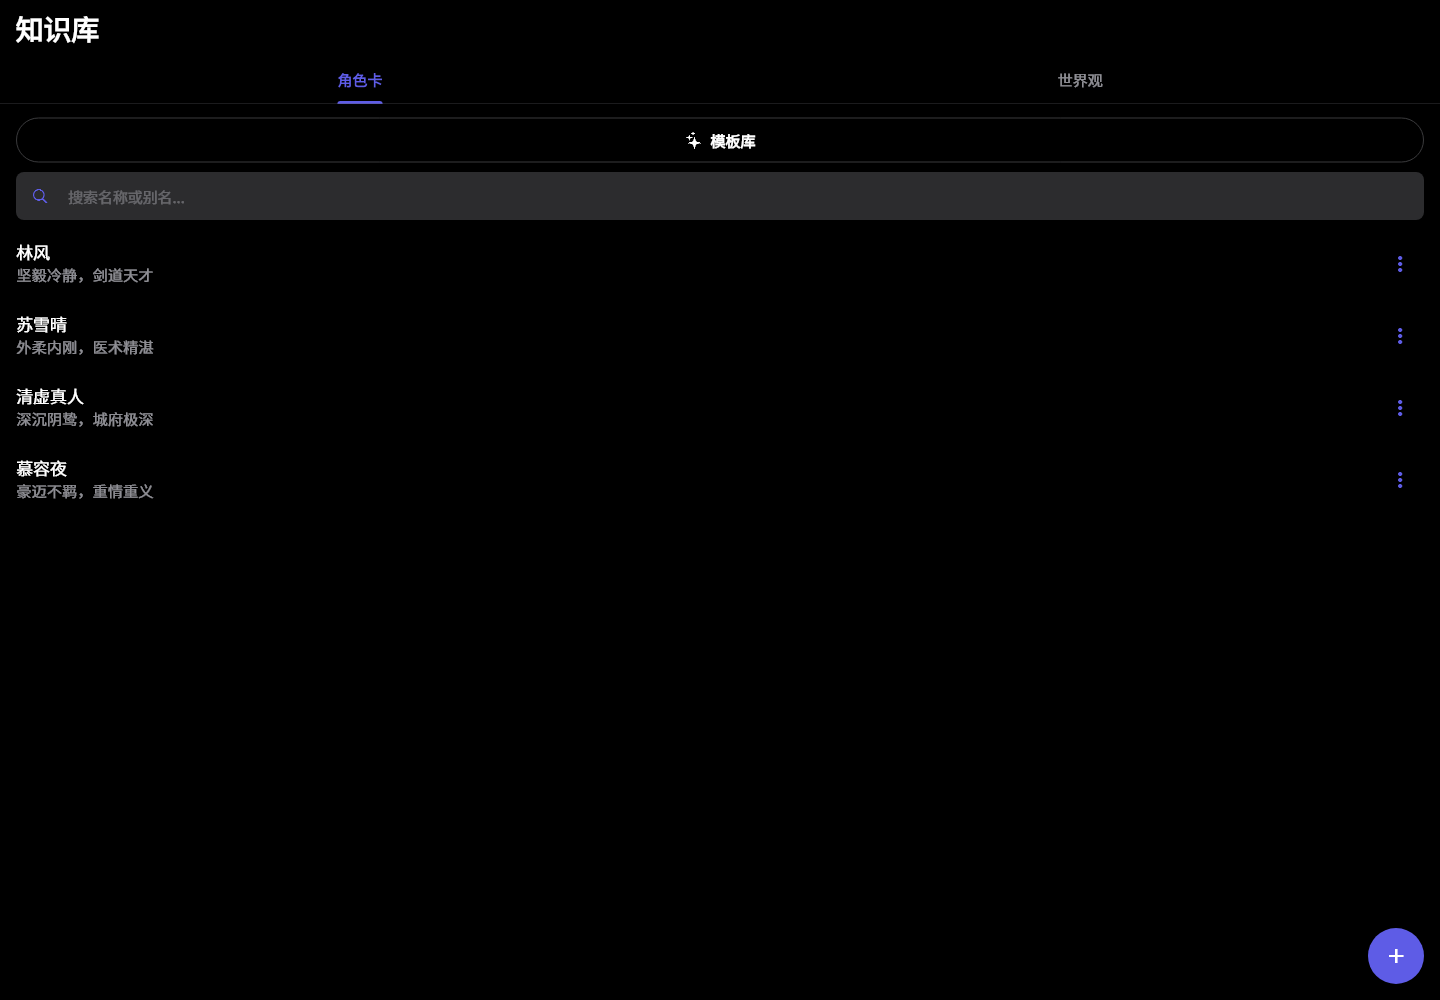
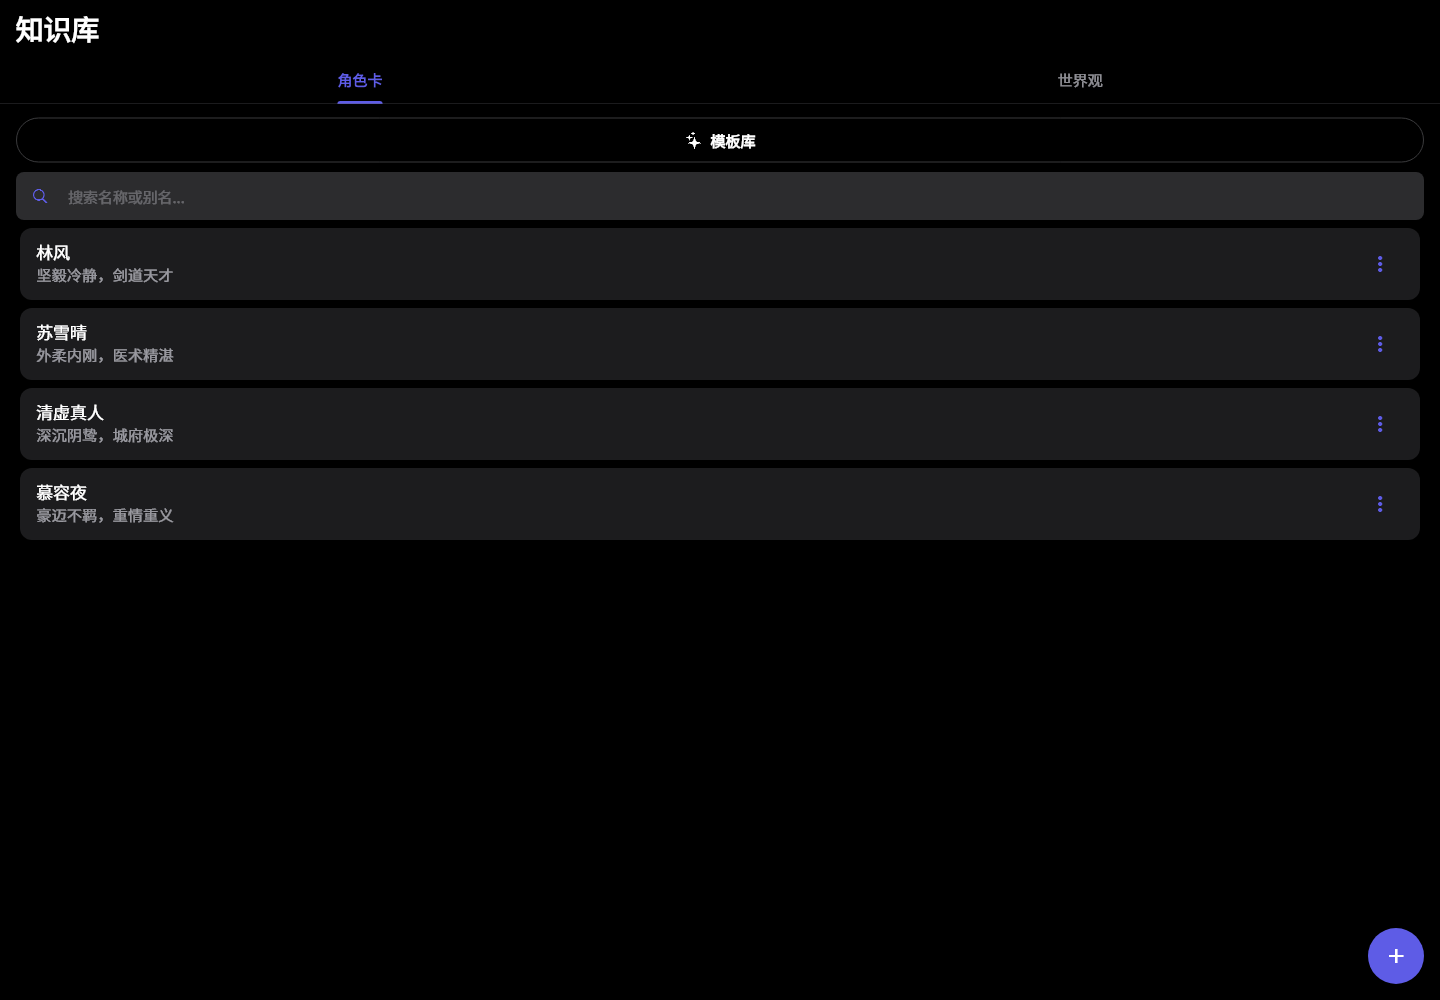
fix(design): card containers for knowledge lists + AppCard Material layer
The knowledge-base character/world lists rendered as bare ListTiles on
the page background — the card-container step was lost when the
interrupted restyle pass was reverted. Wrap both tiles in AppCard (zero
inner padding, page-margin inset), and give AppCard a transparent
Material inside its decorated Container so ListTile ink splashes render
without the framework's hidden-background assertion. Regenerate the
two knowledge goldens.

Changed region(s): [[0.0, 0.217, 1.0, 0.558]]

diff --git a/lib/features/knowledge/presentation/knowledge_base_page.dart b/lib/features/knowledge/presentation/knowledge_base_page.dart
@@ -1,6 +1,8 @@
 import 'package:flutter/cupertino.dart' show CupertinoIcons;
 import 'package:flutter/material.dart';
 import 'package:museflow/shared/theme/app_colors.dart';
+import 'package:museflow/shared/theme/app_dimens.dart';
+import 'package:museflow/shared/widgets/app_card.dart';
 import 'package:flutter_riverpod/flutter_riverpod.dart';
 import 'package:go_router/go_router.dart';
 import 'package:museflow/core/presentation/providers.dart';
@@ -190,61 +192,69 @@ class _CharacterCardTile extends ConsumerWidget {
       chapterCount,
     );
 
-    return ListTile(
-      title: Text(card.name),
-      subtitle: Column(
-        crossAxisAlignment: CrossAxisAlignment.start,
-        mainAxisSize: MainAxisSize.min,
-        children: [
-          Text(
-            card.personality.isNotEmpty ? card.personality : '无性格描述',
-            maxLines: 1,
-            overflow: TextOverflow.ellipsis,
-          ),
-          if (staleness.level != KbStalenessLevel.fresh) ...[
-            const SizedBox(height: 4),
-            _StalenessBadge(staleness: staleness),
+    return AppCard(
+      margin: const EdgeInsets.only(
+        left: AppSpacing.pageMargin,
+        right: AppSpacing.pageMargin,
+        bottom: AppSpacing.sm,
+      ),
+      padding: EdgeInsets.zero,
+      child: ListTile(
+        title: Text(card.name),
+        subtitle: Column(
+          crossAxisAlignment: CrossAxisAlignment.start,
+          mainAxisSize: MainAxisSize.min,
+          children: [
+            Text(
+              card.personality.isNotEmpty ? card.personality : '无性格描述',
+              maxLines: 1,
+              overflow: TextOverflow.ellipsis,
+            ),
+            if (staleness.level != KbStalenessLevel.fresh) ...[
+              const SizedBox(height: 4),
+              _StalenessBadge(staleness: staleness),
+            ],
           ],
-        ],
-      ),
-      trailing: PopupMenuButton<String>(
-        icon: const Icon(Icons.more_vert),
-        tooltip: '操作',
-        onSelected: (value) {
-          if (value == 'verify') {
-            _confirmVerify(context, ref, chapterCount);
-          } else if (value == 'delete') {
-            _confirmDelete(context, ref);
-          }
-        },
-        itemBuilder: (context) => [
-          PopupMenuItem(
-            value: 'verify',
-            child: ListTile(
-              dense: true,
-              contentPadding: EdgeInsets.zero,
-              leading: const Icon(Icons.verified),
-              title: const Text('标记为已验证'),
-            ),
-          ),
-          PopupMenuItem(
-            value: 'delete',
-            child: ListTile(
-              dense: true,
-              contentPadding: EdgeInsets.zero,
-              leading: Icon(
-                Icons.delete_outline,
-                color: Theme.of(context).colorScheme.error,
-              ),
-              title: Text(
-                '删除',
-                style: TextStyle(color: Theme.of(context).colorScheme.error),
+        ),
+        trailing: PopupMenuButton<String>(
+          icon: const Icon(Icons.more_vert),
+          tooltip: '操作',
+          onSelected: (value) {
+            if (value == 'verify') {
+              _confirmVerify(context, ref, chapterCount);
+            } else if (value == 'delete') {
+              _confirmDelete(context, ref);
+            }
+          },
+          itemBuilder: (context) => [
+            PopupMenuItem(
+              value: 'verify',
+              child: ListTile(
+                dense: true,
+                contentPadding: EdgeInsets.zero,
+                leading: const Icon(Icons.verified),
+                title: const Text('标记为已验证'),
               ),
             ),
-          ),
-        ],
+            PopupMenuItem(
+              value: 'delete',
+              child: ListTile(
+                dense: true,
+                contentPadding: EdgeInsets.zero,
+                leading: Icon(
+                  Icons.delete_outline,
+                  color: Theme.of(context).colorScheme.error,
+                ),
+                title: Text(
+                  '删除',
+                  style: TextStyle(color: Theme.of(context).colorScheme.error),
+                ),
+              ),
+            ),
+          ],
+        ),
+        onTap: () => context.go('/knowledge/character/${card.id}'),
       ),
-      onTap: () => context.go('/knowledge/character/${card.id}'),
     );
   }
 
@@ -374,61 +384,69 @@ class _WorldSettingTile extends ConsumerWidget {
       chapterCount,
     );
 
-    return ListTile(
-      title: Text(setting.name),
-      subtitle: Column(
-        crossAxisAlignment: CrossAxisAlignment.start,
-        mainAxisSize: MainAxisSize.min,
-        children: [
-          Text(
-            setting.description.isNotEmpty ? setting.description : '无描述',
-            maxLines: 1,
-            overflow: TextOverflow.ellipsis,
-          ),
-          if (staleness.level != KbStalenessLevel.fresh) ...[
-            const SizedBox(height: 4),
-            _StalenessBadge(staleness: staleness),
+    return AppCard(
+      margin: const EdgeInsets.only(
+        left: AppSpacing.pageMargin,
+        right: AppSpacing.pageMargin,
+        bottom: AppSpacing.sm,
+      ),
+      padding: EdgeInsets.zero,
+      child: ListTile(
+        title: Text(setting.name),
+        subtitle: Column(
+          crossAxisAlignment: CrossAxisAlignment.start,
+          mainAxisSize: MainAxisSize.min,
+          children: [
+            Text(
+              setting.description.isNotEmpty ? setting.description : '无描述',
+              maxLines: 1,
+              overflow: TextOverflow.ellipsis,
+            ),
+            if (staleness.level != KbStalenessLevel.fresh) ...[
+              const SizedBox(height: 4),
+              _StalenessBadge(staleness: staleness),
+            ],
           ],
-        ],
-      ),
-      trailing: PopupMenuButton<String>(
-        icon: const Icon(Icons.more_vert),
-        tooltip: '操作',
-        onSelected: (value) {
-          if (value == 'verify') {
-            _confirmVerify(context, ref, chapterCount);
-          } else if (value == 'delete') {
-            _confirmDelete(context, ref);
-          }
-        },
-        itemBuilder: (context) => [
-          PopupMenuItem(
-            value: 'verify',
-            child: ListTile(
-              dense: true,
-              contentPadding: EdgeInsets.zero,
-              leading: const Icon(Icons.verified),
-              title: const Text('标记为已验证'),
-            ),
-          ),
-          PopupMenuItem(
-            value: 'delete',
-            child: ListTile(
-              dense: true,
-              contentPadding: EdgeInsets.zero,
-              leading: Icon(
-                Icons.delete_outline,
-                color: Theme.of(context).colorScheme.error,
-              ),
-              title: Text(
-                '删除',
-                style: TextStyle(color: Theme.of(context).colorScheme.error),
+        ),
+        trailing: PopupMenuButton<String>(
+          icon: const Icon(Icons.more_vert),
+          tooltip: '操作',
+          onSelected: (value) {
+            if (value == 'verify') {
+              _confirmVerify(context, ref, chapterCount);
+            } else if (value == 'delete') {
+              _confirmDelete(context, ref);
+            }
+          },
+          itemBuilder: (context) => [
+            PopupMenuItem(
+              value: 'verify',
+              child: ListTile(
+                dense: true,
+                contentPadding: EdgeInsets.zero,
+                leading: const Icon(Icons.verified),
+                title: const Text('标记为已验证'),
               ),
             ),
-          ),
-        ],
+            PopupMenuItem(
+              value: 'delete',
+              child: ListTile(
+                dense: true,
+                contentPadding: EdgeInsets.zero,
+                leading: Icon(
+                  Icons.delete_outline,
+                  color: Theme.of(context).colorScheme.error,
+                ),
+                title: Text(
+                  '删除',
+                  style: TextStyle(color: Theme.of(context).colorScheme.error),
+                ),
+              ),
+            ),
+          ],
+        ),
+        onTap: () => context.go('/knowledge/setting/${setting.id}'),
       ),
-      onTap: () => context.go('/knowledge/setting/${setting.id}'),
     );
   }
 

diff --git a/lib/shared/widgets/app_card.dart b/lib/shared/widgets/app_card.dart
@@ -34,13 +34,20 @@ class AppCard extends StatelessWidget {
   @override
   Widget build(BuildContext context) {
     final p = AppColors.of(context);
+    // The transparent Material sits INSIDE the decorated Container so
+    // ListTile children (and the optional InkWell) find a Material
+    // ancestor without a colored DecoratedBox between them — otherwise
+    // the framework asserts the background hides their splashes.
     final card = Container(
       margin: margin,
       decoration: BoxDecoration(
         color: color ?? p.cardBackground,
         borderRadius: BorderRadius.circular(radius),
       ),
-      child: Padding(padding: padding, child: child),
+      child: Material(
+        type: MaterialType.transparency,
+        child: Padding(padding: padding, child: child),
+      ),
     );
 
     if (onTap == null && onLongPress == null) return card;
